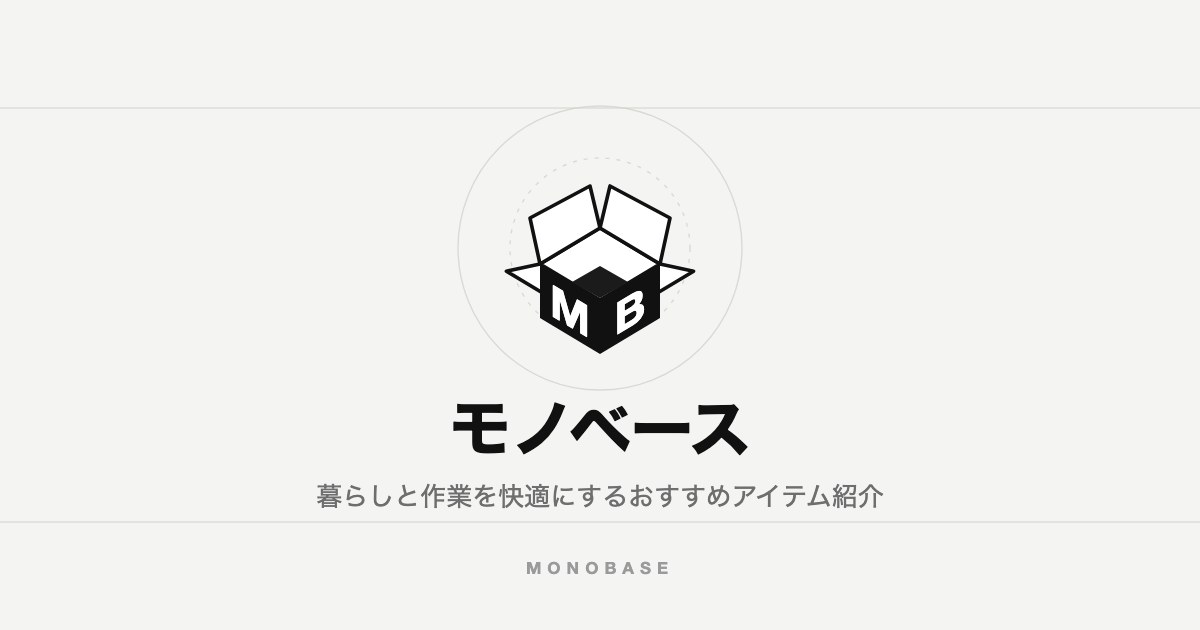
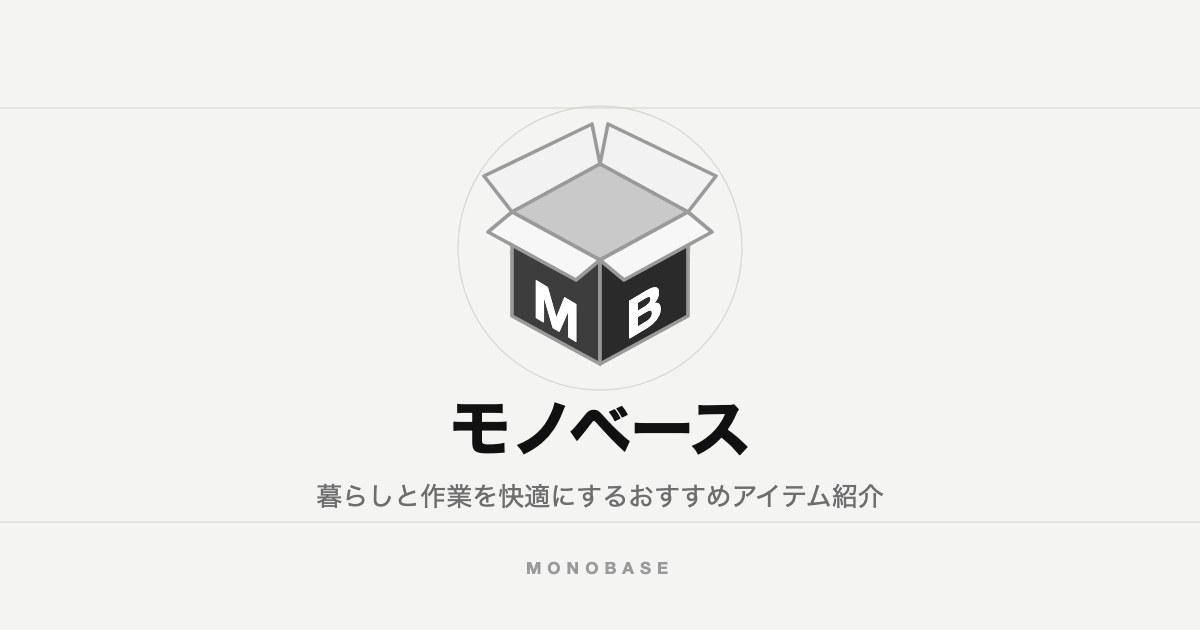
ブックマークとSNSの絵も、新しいブランドマークにそろえる
make_brand_icons.py が古い形のマークを自前で持っていたので、
build.py の logo_svg() と同じ座標に書き換える。favicon-32 と
og-default.jpg は、これまで古い絵のまま残っていた。

Changed region(s): [[0.4008, 0.181, 0.5858, 0.573], [0.5858, 0.2714, 0.6167, 0.3016], [0.555, 0.2413, 0.5858, 0.2714]]

diff --git a/tools/make_brand_icons.py b/tools/make_brand_icons.py
@@ -10,8 +10,8 @@
     apple-touch-icon.png  iOSのホーム画面（角丸はiOS側が付けるので四角のまま）
     og-default.jpg        SNSに貼られたときの既定の画像
 
-マークは build.py の logo_svg() と同じ形。色だけ、暗い地の上に置くため
-フッターと同じ組み合わせ（白い箱・黒いフタ）に入れ替えている。
+マークは build.py の logo_svg() と同じ形・同じ色。ヘッダーに出ている
+ものと、タブ・ホーム画面・ブックマーク・SNSの絵が揃う。
 
 PNG/JPG は Chrome を画面なしで動かして書き出す。SVGを直接ラスタライズする
 道具（cairosvg など）を新たに入れずに済ませるため。
@@ -45,60 +45,40 @@ def chrome():
     sys.exit("Chrome が見つかりません。")
 
 
-def mark(body, flap, line, letter, inner="#ffffff", inner2="#1b1b1b", flaps=True):
-    """写真（開いた箱に MB）に寄せたブランドマーク。
-       立方体を角から見た形。上面は菱形の開口で、そこから4枚のフタが開く。
-       奥の2枚は立ち上がり、手前の2枚は上面と同じ平面のまま外へ倒れる。"""
-    T, L, R, F = (24, 13), (9, 22), (39, 22), (24, 31)
-    L2, F2, R2 = (9, 35.5), (24, 44.5), (39, 35.5)
-    def d(*pts): return "M" + " L".join(f"{x} {y}" for x, y in pts) + " Z"
-
-    # 手前のフタは上面と同じ平面のまま外へ。奥へ向かう対角の逆向きに倒す
-    fl_front = f'''<path d="{d(L, F, (15.6,32.8), (0.6,23.8))}"/>
-    <path d="{d(F, R, (47.4,23.8), (32.4,32.8))}"/>'''
-    # 奥のフタは立ち上がる
-    fl_back = f'''<path d="{d(L, T, (21.5,2.5), (6.5,10.5))}"/>
-    <path d="{d(T, R, (41.5,10.5), (26.5,2.5))}"/>'''
-    g_front = (f'<g fill="{flap}" stroke="{line}" stroke-width="0.9" '
-               f'stroke-linejoin="round">{fl_front}</g>' if flaps else "")
-    g_back = (f'<g fill="{flap}" stroke="{line}" stroke-width="0.9" '
-              f'stroke-linejoin="round">{fl_back}</g>' if flaps else "")
-    return f'''<g>
-  {g_front}
-  <path d="{d(T, R, F, L)}" fill="{inner}" stroke="{line}" stroke-width="0.9" stroke-linejoin="round"/>
-  <path d="{d((24,22.5),(31,26.5),(24,30.5),(17,26.5))}" fill="{inner2}"/>
-  {g_back}
-  <path d="{d(L, F, F2, L2)}" fill="{body}"/>
-  <path d="{d(F, R, R2, F2)}" fill="{body}"/>
-  <g fill="{letter}" font-family="Helvetica Neue,Arial,sans-serif"
-     font-size="11" font-weight="700" text-anchor="middle" dominant-baseline="central">
-    <text x="16.5" y="23.6" transform="matrix(1,0.6,0,1,0,0)">M</text>
-    <text x="31.5" y="52.4" transform="matrix(1,-0.6,0,1,0,0)">B</text>
-  </g>
+def mark(body="#3d3d3d", body2="#2a2a2a", flap="#f2f2f2", flap2="#f7f7f7",
+         line="#9a9a9a", inner="#c9c9c9", letter="#ffffff"):
+    """ブランドマーク。build.py の logo_svg() と同じ座標。
+       立方体を角から見た形で、上面の菱形の開口から4枚のフタが外へ開く。
+       色だけ引数で入れ替える（暗い地に置くときは白黒を反転させる）。"""
+    return f'''<g stroke="{line}" stroke-width="0.9" stroke-linejoin="round">
+  <path d="M32 11 L10 23 L3 14 L30 1 Z" fill="{flap}"/>
+  <path d="M32 11 L54 23 L61 14 L34 1 Z" fill="{flap}"/>
+  <path d="M10 23 L32 11 L54 23 L32 35 Z" fill="{inner}"/>
+  <path d="M10 23 L10 49 L32 61 L32 35 Z" fill="{body}"/>
+  <path d="M54 23 L54 49 L32 61 L32 35 Z" fill="{body2}"/>
+  <path d="M10 23 L32 35 L26 40 L4 28 Z" fill="{flap2}"/>
+  <path d="M54 23 L32 35 L38 40 L60 28 Z" fill="{flap2}"/>
+</g>
+<g fill="{letter}" font-family="Helvetica Neue,Helvetica,Arial,sans-serif"
+   font-size="13" font-weight="700" text-anchor="middle" dominant-baseline="central">
+  <text x="21" y="34.9" transform="matrix(1,0.6,0,1,0,0)">M</text>
+  <text x="43" y="73.3" transform="matrix(1,-0.6,0,1,0,0)">B</text>
 </g>'''
 
 
-# マークの図形が実際に占める範囲（48×44 の枠のうち、フタの先から箱の底まで）。
-# タイルいっぱいに収めるための計算に使う。
-MARK_BOX = (0.6, 2.5, 47.4, 44.5)       # フタまで入れたとき
-MARK_BOX_NOFLAP = (9.0, 13.0, 39.0, 44.5)   # 箱だけのとき
+# マークの図形が実際に占める範囲（フタの先から箱の底まで）。
+# 紙面に載せるとき、位置と大きさを決める計算に使う。
+MARK_BOX = (3.0, 1.0, 61.0, 61.0)
 
 
-def tile_svg(round_corners=True, pad=3.0, flaps=True):
-    """暗いタイルにマークを載せたもの。favicon と apple-touch-icon で共用。
-       16pxまで小さくなるので、余白を詰めてタイルいっぱいに置く。
-       余らせると箱が小さくなり、中の MB が読めなくなる。"""
-    x1, y1, x2, y2 = MARK_BOX if flaps else MARK_BOX_NOFLAP
-    w, h = x2 - x1, y2 - y1
-    s = min((64 - pad * 2) / w, (64 - pad * 2) / h)
-    tx = (64 - w * s) / 2 - x1 * s
-    ty = (64 - h * s) / 2 - y1 * s
+def tile_svg(round_corners=False):
+    """紙の地にマークを載せたもの。favicon と apple-touch-icon で共用。
+       ヘッダーに出ているものと同じ配色・同じ座標なので、
+       タブ・ホーム画面・ブックマークでヘッダーと同じ絵になる。"""
     r = ' rx="14"' if round_corners else ""
-    return f'''<svg xmlns="http://www.w3.org/2000/svg" viewBox="0 0 64 64">
-  <rect width="64" height="64"{r} fill="{INK}"/>
-  <g transform="translate({tx:.2f},{ty:.2f}) scale({s:.3f})">
-{mark("#ffffff", INK, "#ffffff", INK, inner=INK, inner2="#ffffff", flaps=flaps)}
-  </g>
+    return f'''<svg xmlns="http://www.w3.org/2000/svg" viewBox="0 0 64 64" width="64" height="64">
+<rect width="64" height="64"{r} fill="#ffffff"/>
+{mark()}
 </svg>'''
 
 
@@ -130,8 +110,8 @@ def og_svg(name, tagline):
     <circle cx="600" cy="248" r="142"/>
     <circle cx="600" cy="248" r="90" stroke-dasharray="4 7"/>
   </g>
-  <g transform="translate(504,176) scale(4)">
-{mark(INK, "#ffffff", INK, "#ffffff")}
+  <g transform="translate(472,120) scale(4)">
+{mark()}
   </g>
   <g font-family="Helvetica Neue,Arial,Hiragino Sans,Meiryo,sans-serif" text-anchor="middle">
     <text x="600" y="452" font-size="62" font-weight="800" fill="{INK}">{name}</text>
@@ -147,19 +127,19 @@ def main():
     site = json.load(io.open(os.path.join(ROOT, "content/site.json"), encoding="utf-8"))
     ch = chrome()
 
-    # 1) favicon.svg。タブは小さいので角丸を付けた暗いタイルに載せる
+    # 1) favicon.svg。ブラウザのタブとブックマークで使われる
     fav = os.path.join(OUT, "favicon.svg")
-    io.open(fav, "w", encoding="utf-8").write(tile_svg(flaps=False) + "\n")
+    io.open(fav, "w", encoding="utf-8").write(tile_svg() + "\n")
     print(f"  {os.path.relpath(fav, ROOT)}")
 
     # 2) SVGを読まないブラウザ向けの控え
     p32 = os.path.join(OUT, "favicon-32.png")
-    shot(tile_svg(flaps=False), 32, 32, p32, ch, transparent=True)
+    shot(tile_svg(), 32, 32, p32, ch)
     print(f"  {os.path.relpath(p32, ROOT)}  32×32")
 
     # 3) iOSのホーム画面。角丸はiOSが付けるので、こちらは四角のまま
     apple = os.path.join(OUT, "apple-touch-icon.png")
-    shot(tile_svg(round_corners=False), 180, 180, apple, ch)
+    shot(tile_svg(), 180, 180, apple, ch)
     print(f"  {os.path.relpath(apple, ROOT)}  180×180")
 
     # 4) OGP。JPEGにしたいので、一度PNGで撮ってから変換する
